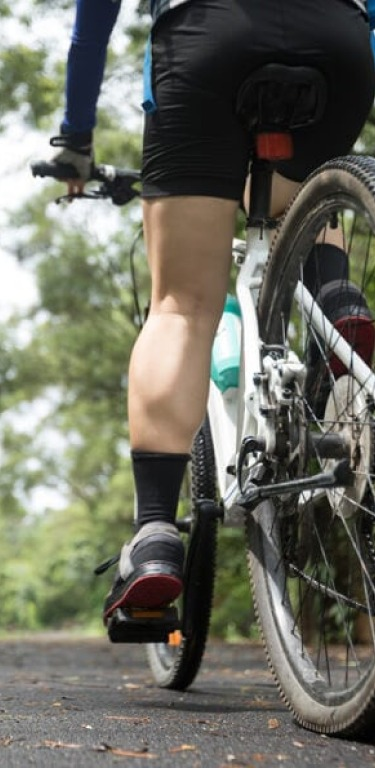
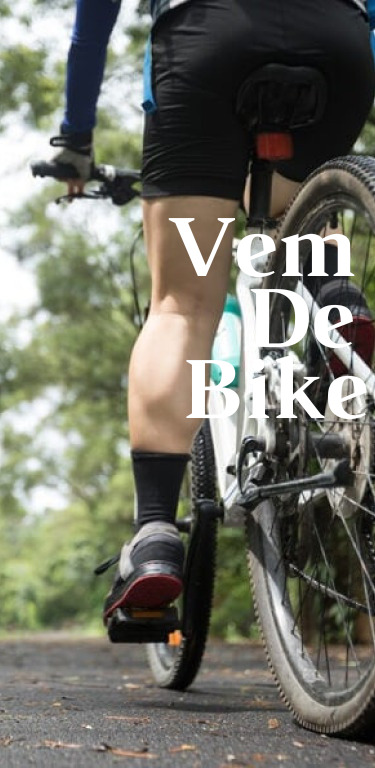
Foto nova

diff --git a/src/pages/Home.js b/src/pages/Home.js
@@ -14,11 +14,7 @@ import { useEffect } from 'react';
     
     <ImageBackground source={Bike} className="w-full h-full z-3">
    
-    <View className="flex-1 flex-col self-end text-7xl items-center drop-shadow-2xl p-10 shadow-red-900	 ">
-    <Text className=" color-white text-7xl items-center mb-10 shadow-red-900	"> Vem  </Text> 
-    <Text  className=" color-white text-7xl mb-10 shadow"> De </Text>    
-    <Text  className=" color-white text-7xl self-center"> Bike </Text>   
-    </View>
+
     
      
      <View className="flex-1  flex-row self-center justify-around items-end p-5   " >
